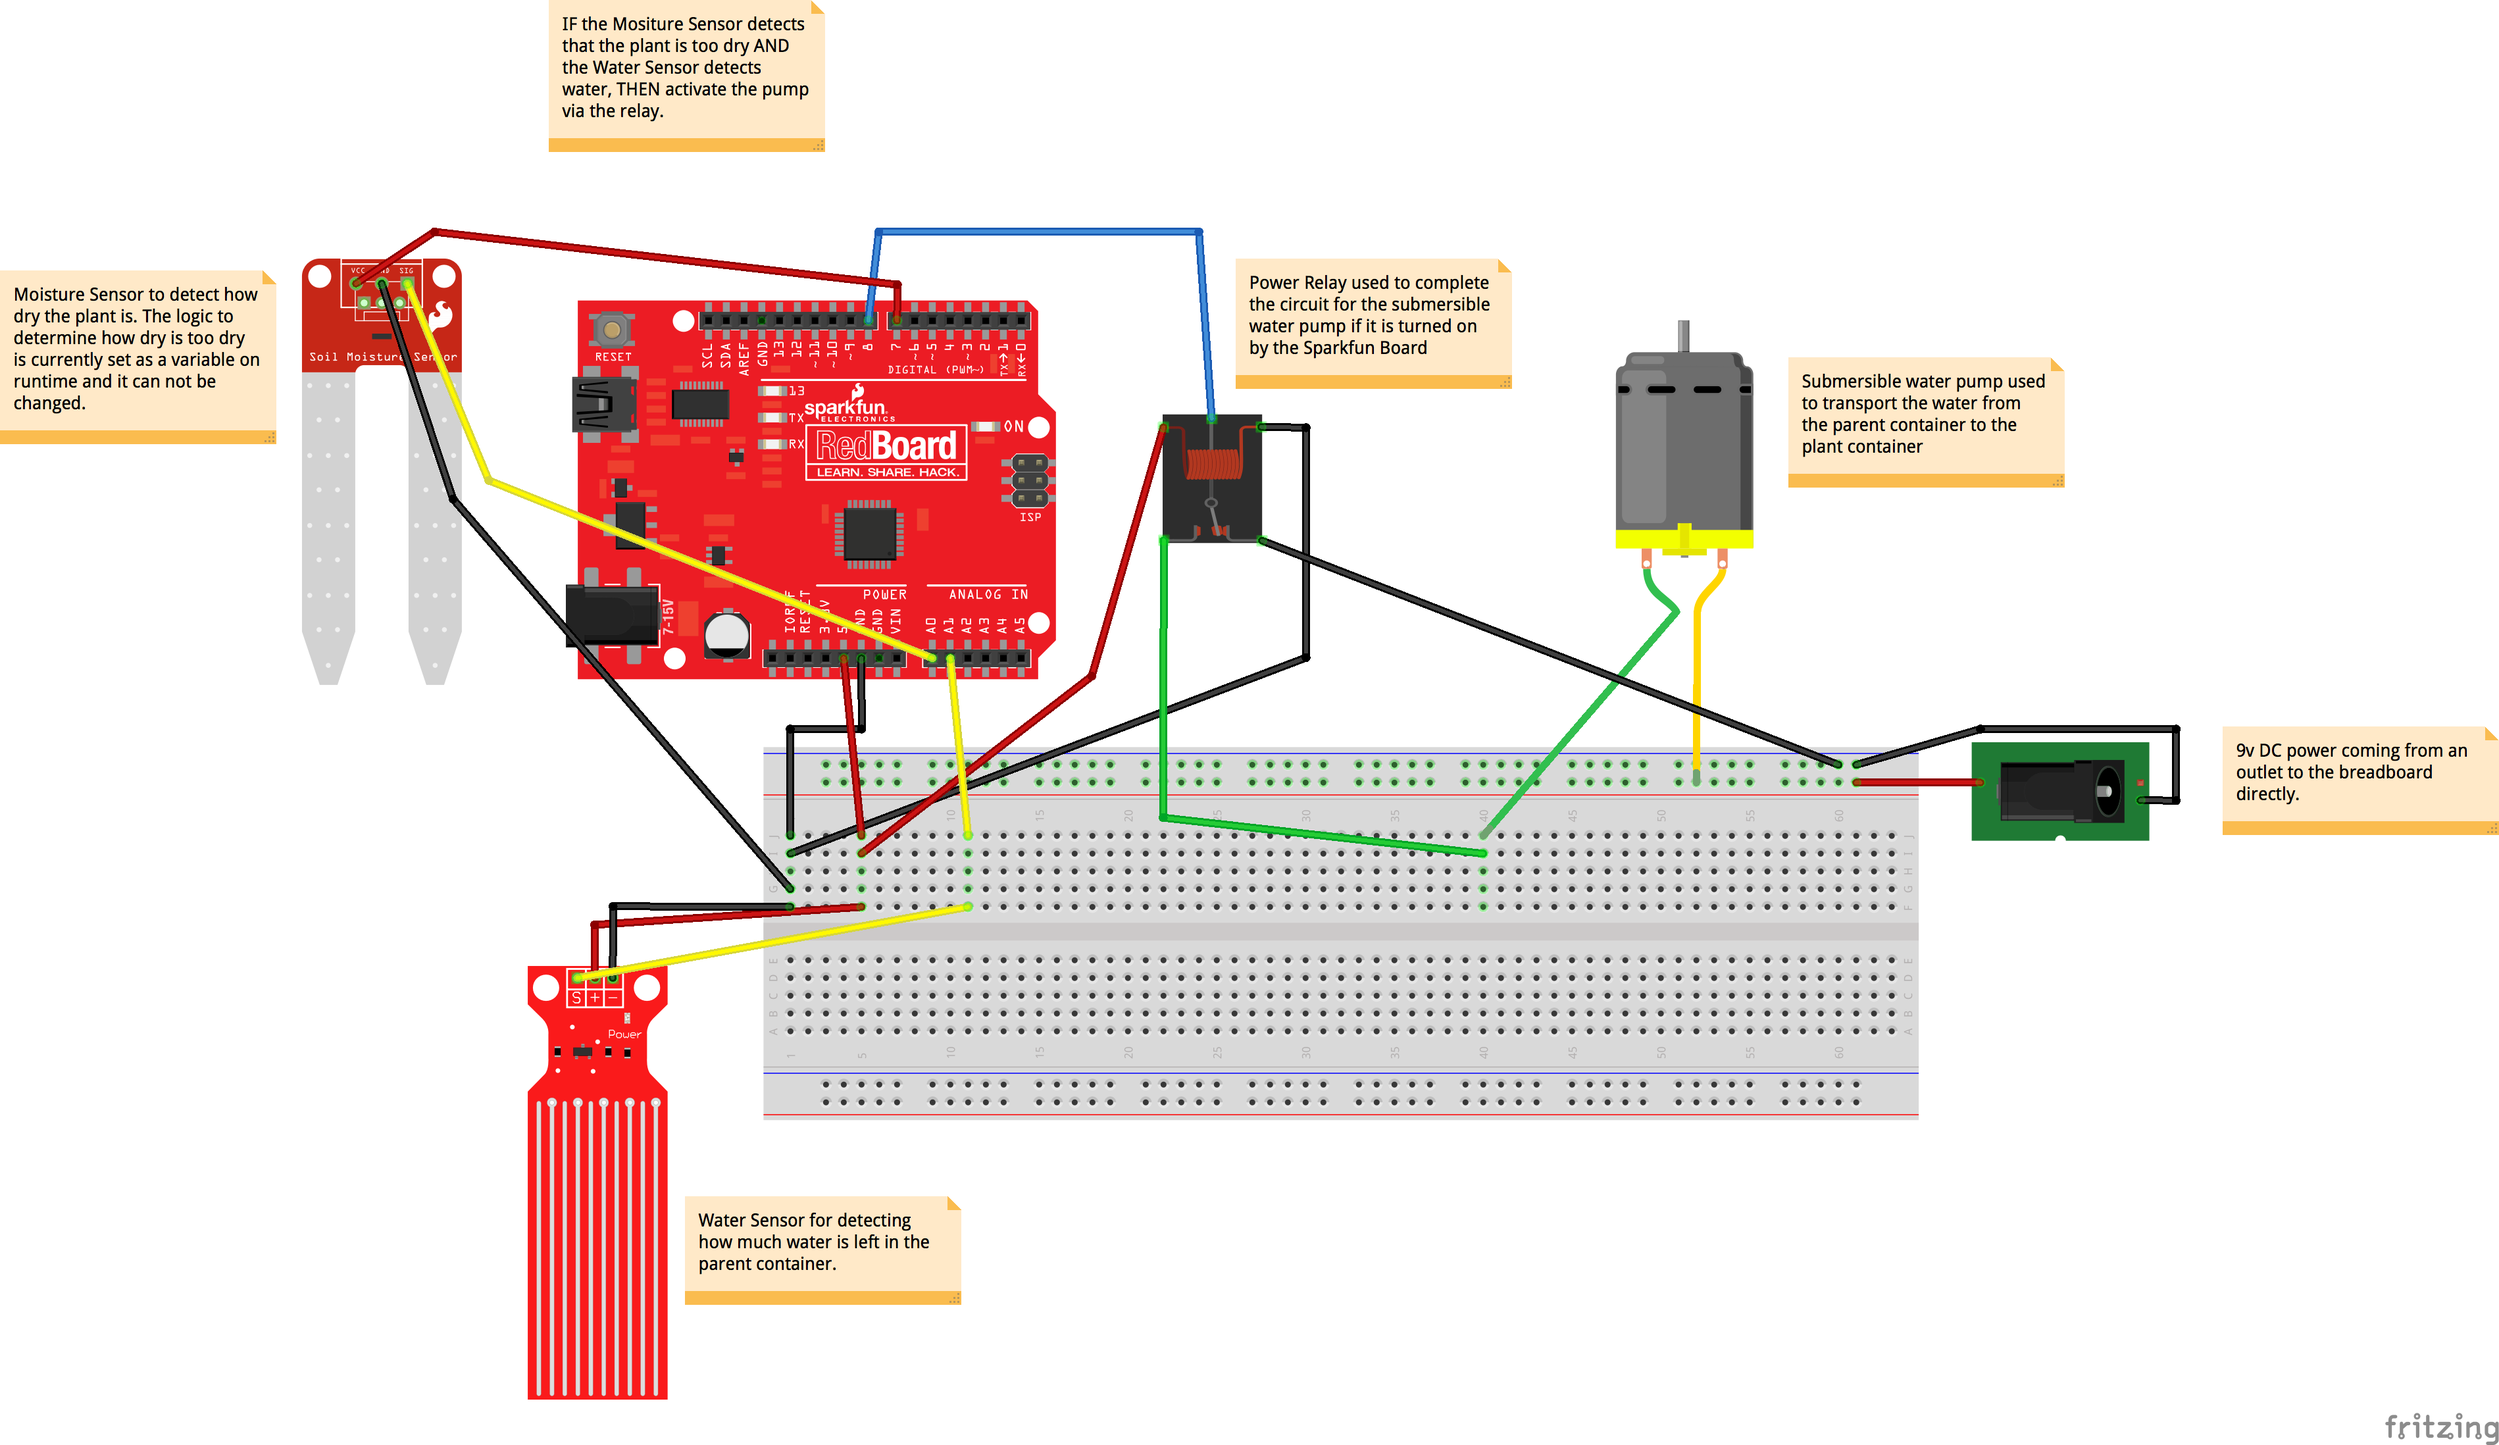
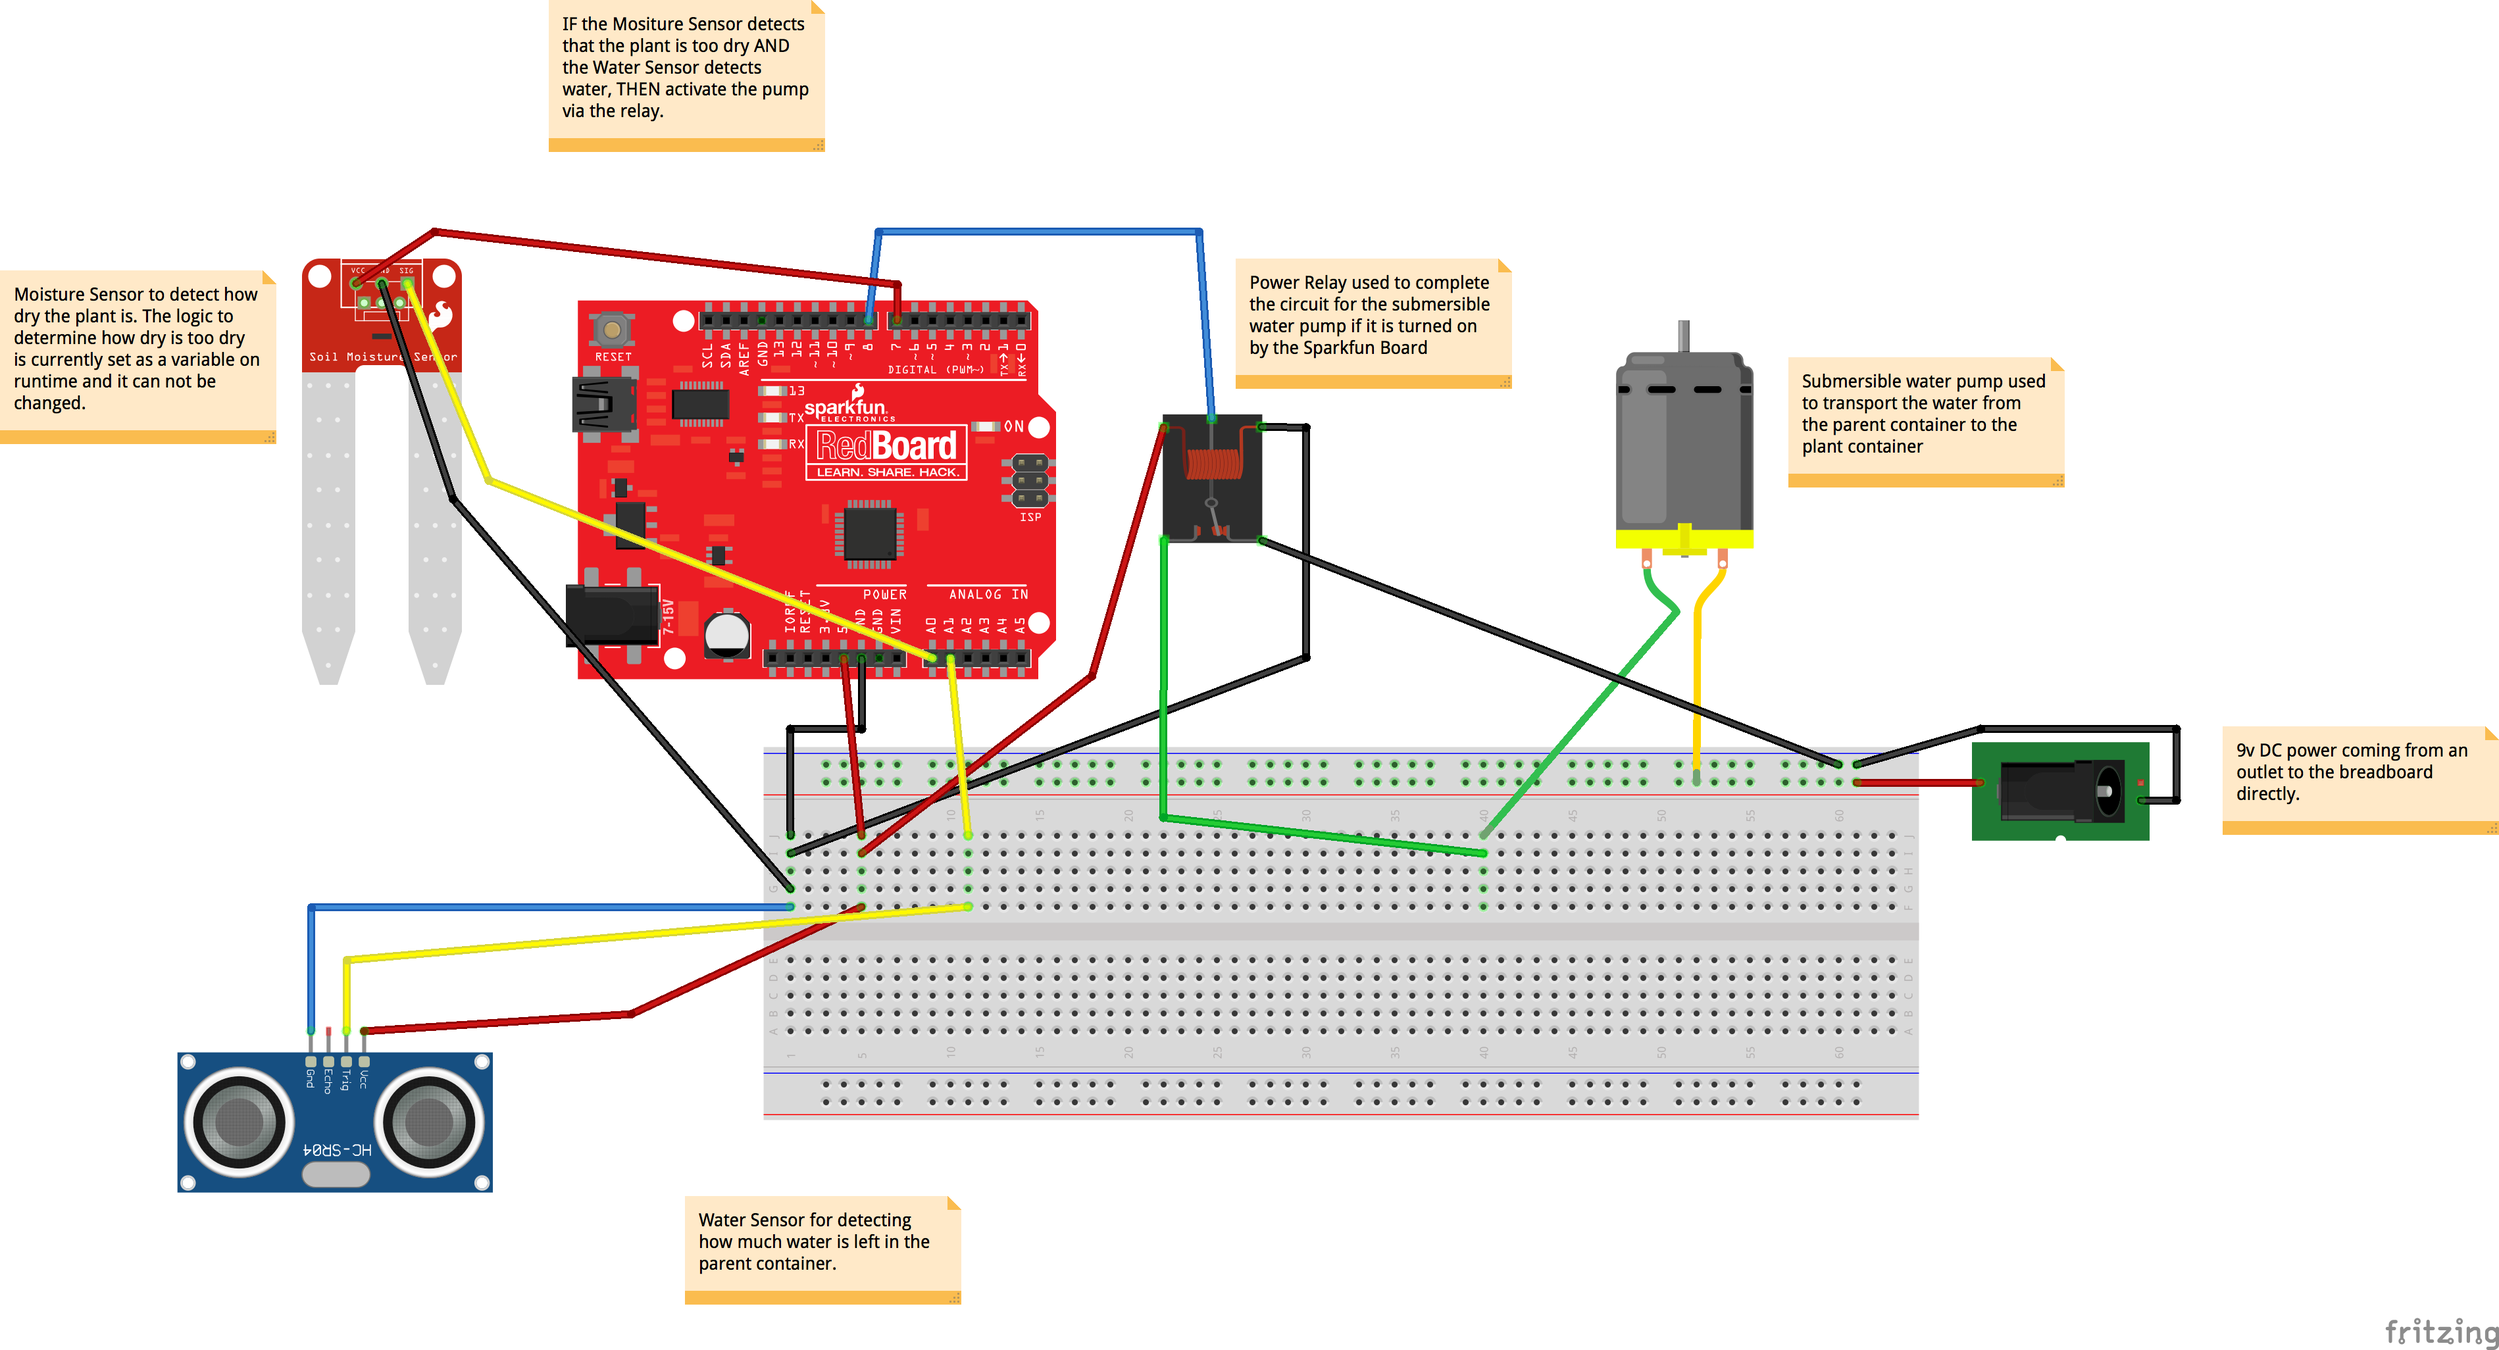
cleaning up the code, adding sonar sensor documentation

diff --git a/moisture_sensor.js b/moisture_sensor.js
@@ -20,7 +20,6 @@ function stopWateringPlants(board) {
 
 // Checks
 function waterLevelCheck(value, minWaterLevelVal) {
-  // console.log(`water level check: ${value} and minWaterLevelVal: ${minWaterLevelVal}`);
   if (value <= minWaterLevelVal) {
     return true;
   } else {
@@ -38,7 +37,6 @@ function isPlantDry(value, targetMoistureVal) {
 
 function togglePlantWatering(board, incomingSoilMoistureVal, waterLevelIsAcceptable, targetMoistureVal) {
   var moistureSensorBufferValue = 25; // Must be above this value to avoid accidently getting low-reading voltage values randomly
-  // console.log(`incoming moisture sensor value: ${incomingSoilMoistureVal} and waterLevelIsAcceptable: ${waterLevelIsAcceptable} and targetMoisture Val: ${targetMoistureVal}`);
 
   if (incomingSoilMoistureVal > moistureSensorBufferValue) {
     if (waterLevelIsAcceptable) {

diff --git a/README.md b/README.md
@@ -3,7 +3,7 @@
 ## Summary
 Using the following pieces of equipment:
 - [Moisture Sensor](https://www.sparkfun.com/products/13322)
-- [Water Level Sensor](https://www.tutorialspoint.com/arduino/arduino_water_detector_sensor.htm)
+- [Sonar Sensor](https://www.robotshop.com/en/sharp-gp2y0a02yk0f-ir-range-sensor.html)
 - [4 Channel DC 5V Power Relay](https://www.amazon.com/JBtek-Channel-Module-Arduino-Raspberry/dp/B00KTEN3TM)
 - [Sparkfun RedBoard](https://www.sparkfun.com/products/13975)
 - [Submersible Water Pump](https://www.amazon.com/Small-Water-Pump-4-5v-Available/dp/B077X1NKRL)
@@ -15,10 +15,20 @@ Note: A 1-Channel DC 5V Power Relay is also acceptable
 ## How it works
 
 ### Check the Water Level
-The container which holds the water has the Water Level Sensor somehow attached to it to acknowledge to the microcontroller that there is enough water by checking the voltage reading coming from that sensor.
+The container which holds the water has a Sonar Sensor that is checking the level of the water every second.
+
+This is used to ensure that if the soil becomes too dry, that there is any water at all to pump out and deliver to the plant.
+
+![WaterLevelSonarSensor](images/5_Water_Level_Sonar_Sensor.jpg)
+
+The surface of the water is _not_ capable of creating a hard enough surface to reflect back an accurate reading as to how much water is in the container. That is why I'm using a foam material that floats on the surface to bounce off of to get a more accurate reading.
 
 ### Check the Soil Moisture Level
-The plant will have a soil moisture sensor plugged into the soil to ensure that the plant has enough water and will send readings back to the microcontroller. The microcontroller logic will check if the values being sent back fall in a certain threshold value and if it does, then it will water the plant.
+The plant has a soil moisture sensor plugged into the soil to ensure that the plant has enough water and will send readings back to the microcontroller.
+
+The microcontroller logic will check if the values being sent back fall in a certain threshold value and if it does, then it will water the plant.
+
+![SoilMoistureSensor](images/4_Soil_Moisture_Sensor.jpg)
 
 ### If the plant is both dry and there's enough water...
 The microcontroller at this point will send a signal to the 4-channel power relay which will activate the submersible water pump. The pump will continue running as long as:
@@ -36,16 +46,24 @@ https://github.com/rwaldron/johnny-five/wiki/Getting-Started
 
 which includes instructions on how to flash your Arduino-comptabile microcontroller to be able to run this code on the microcontroller.
 
+### Caveats
+Before starting this project, I had falsely assumed that Johnny-Five was capable of running the Javascript code as if it was somehow read and transcribed into the Java code that was necessary for the Arduino.
+
+What Johnny-Five does instead, is that there's a *host machine* that is running a Node.js process that will actively transcribe the code for the Arduino.
+
+Meaning that there has to be a machine that is able to run Node.js that is running along side the Arduino. This machine does not need to be another computer altogether - but a Raspberry Pi works out for this particular solution.
+
+![RaspberryPi](images/6_Raspberry_Pi.jpg)
+
 ## Gallery
 
 ### Final Set-up
-![Setup](images/5_Final_Setup.jpg)
+![Setup](images/7_Final_Setup.jpg)
 
 ### Fritzing Diagram
 ![ComponentSetup](images/Self-Watering_Plant_Sensor.png)
 
 ### Some of the individual components
 ![RedBoard](images/1_Sparkfun_Redboard.jpg)
-![Protoboard](images/2_Protoboard.jpg)
+![BreadBoard](images/3_Breadboard.jpg)
 ![FourChannelRelay](images/3_Four_Channel_Relay.jpg)
-![WaterLevelSensor](images/4_Water_Level_Sensor.jpg)
